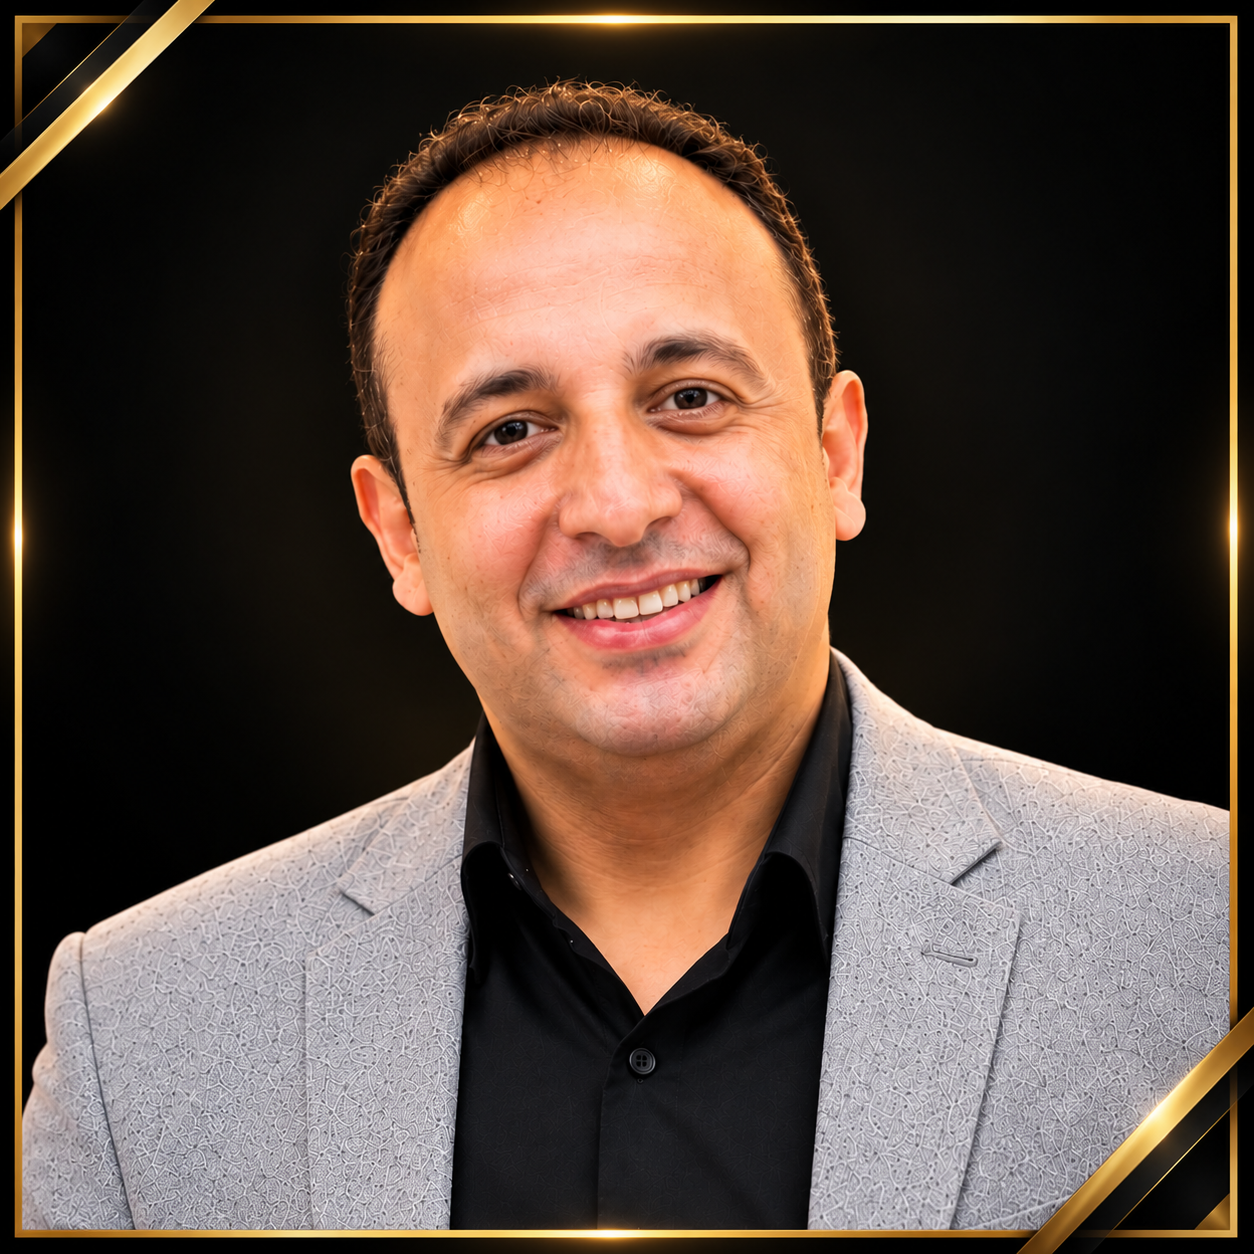
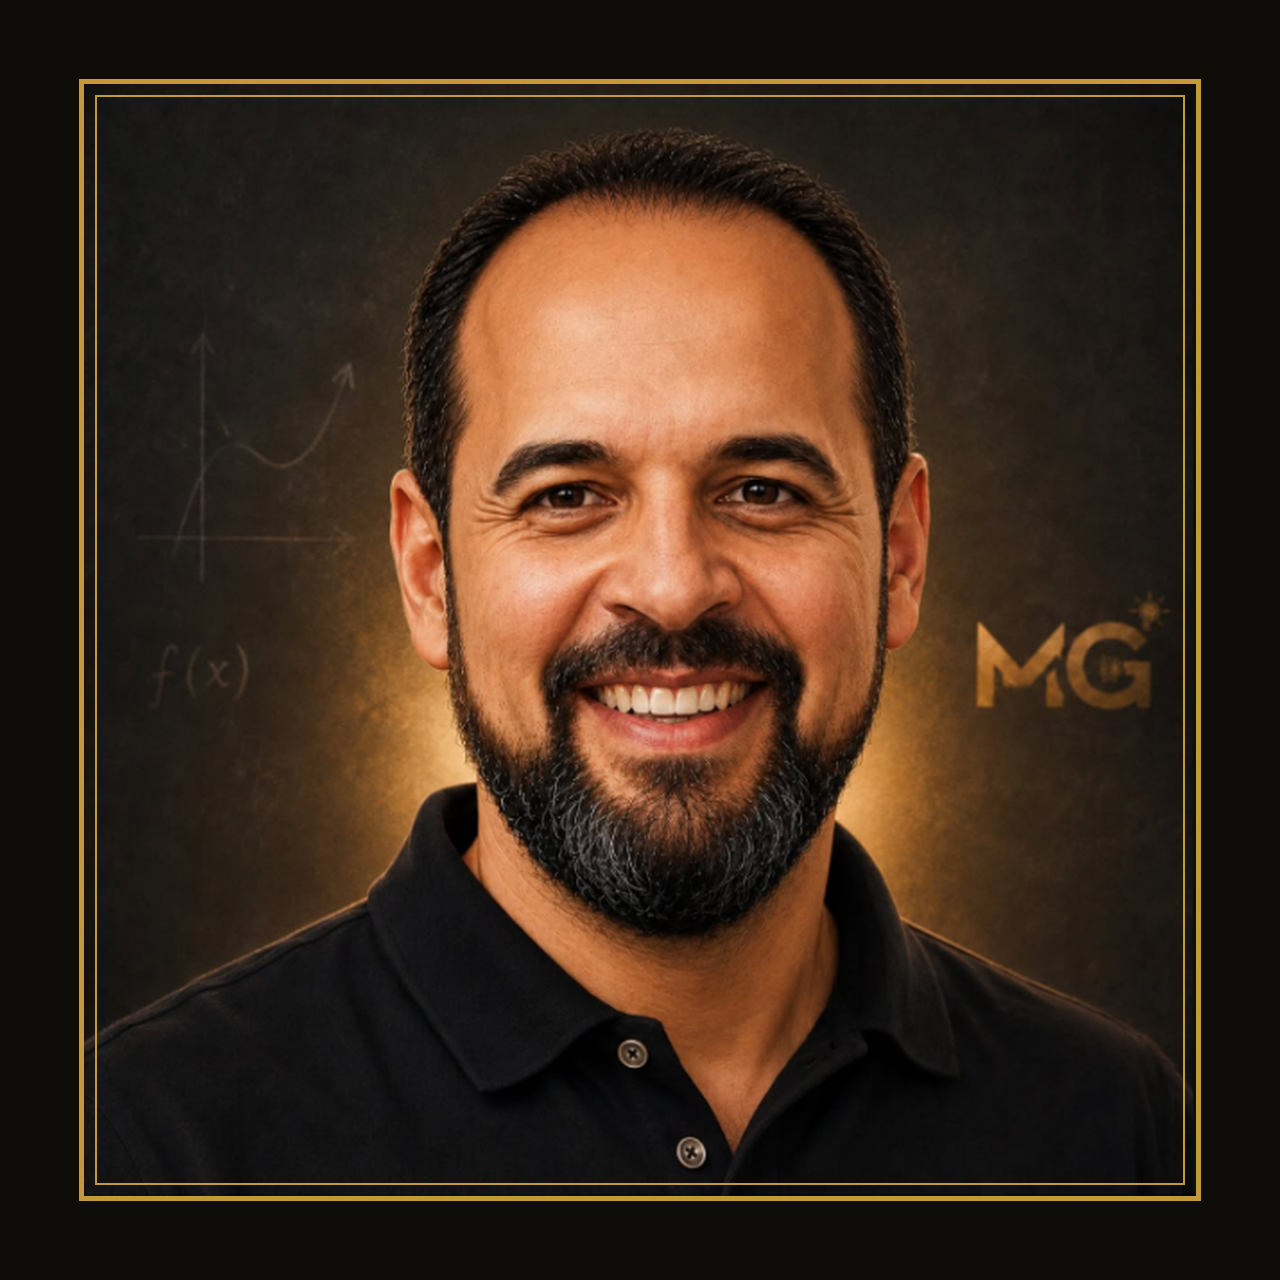
و21: صور المنصة كلها لمستر وائل الحقيقية — الفولباك والغلاف كانوا لسه بصورة البدلة الرمادي (مستر شريف من القالب القديم) + لوحة الشرف بتعرض اسم الطالب كامل زي ما كاتبه

diff --git a/src/app/api/leaderboard/route.ts b/src/app/api/leaderboard/route.ts
@@ -5,7 +5,8 @@
 //   • GET بدون أي توثيق — بتشتغل من صفحة الهبوط مباشرة
 //   • النقاط = مجموع درجات الامتحانات (ExamResult.score) + مجموع درجات الواجبات
 //     (HomeworkResult.score) — نفس أرقام لوحة الأدمن بالظبط
-//   • خصوصية: الاسم بيرجع بكلمتين كحد أقصى — ممنوع التليفون أو أي بيانات شخصية
+//   • خصوصية: ممنوع التليفون أو الإيميل أو أي بيانات شخصية — الاسم بس زي ما الطالب كاتبه
+//     (2026-و21: تعديل بطلب المستر — الاسم كامل زي ما هو كاتبه مش كلمتين)
 //   • الطلاب المقبولين بس (approved/paid) + نتايج امتحان/واجب لسه موجودين في
 //     المنصة (لو المستر مسح امتحان/واجب نقاطه بتشيل معاه — نفس منطق الحذف المتسلسل)
 
@@ -42,11 +43,9 @@ export async function GET() {
       'LIMIT 3'
     ) || []
 
-    // تنسيق الرد: الاسم بكلمتين كحد أقصى + الصف + النقاط كرقم نظيف
+    // تنسيق الرد: الاسم كامل زي ما الطالب كاتبه (و21 بطلب المستر) + الصف + النقاط كرقم نظيف
     var leaderboard = (rows || []).map(function (r: any) {
-      var fullName = String(r.name || 'طالب').trim()
-      var words = fullName.split(/\s+/).filter(Boolean)
-      var displayName = words.slice(0, 2).join(' ') // خصوصية: كلمتين كحد أقصى
+      var displayName = String(r.name || 'طالب').trim().replace(/\s+/g, ' ') || 'طالب'
       var total = Number(r.totalPoints) || 0
       // تقريب نظيف: صحيح لو مقدرش كسور، وإلا رقم عشري واحد
       var totalClean = Math.round(total * 10) / 10

diff --git a/src/components/landing/LeaderboardSection.tsx b/src/components/landing/LeaderboardSection.tsx
@@ -134,7 +134,7 @@ export function LeaderboardSection() {
                           المركز {idx + 1}
                         </span>
                       </div>
-                      <p className="mt-1.5 font-semibold text-base leading-snug truncate" dir="auto">
+                      <p className="mt-1.5 font-semibold text-base leading-snug truncate" dir="auto" title={r.name}>
                         {r.name}
                       </p>
                       <p className="text-xs text-muted-foreground truncate">{r.grade}</p>
